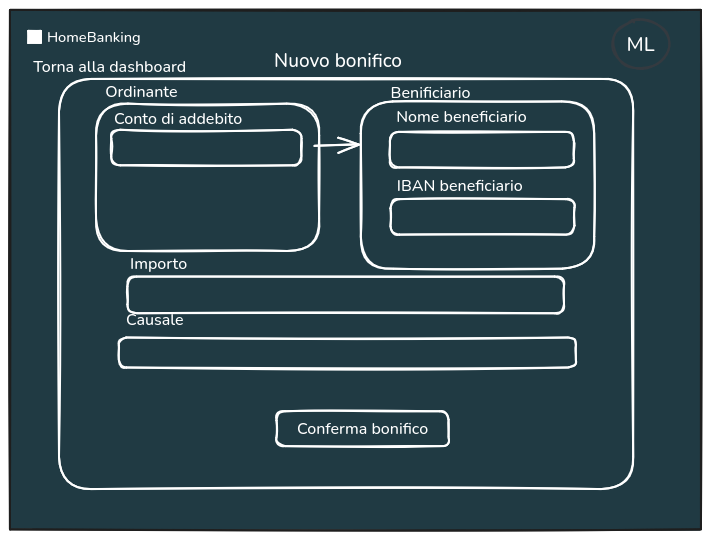
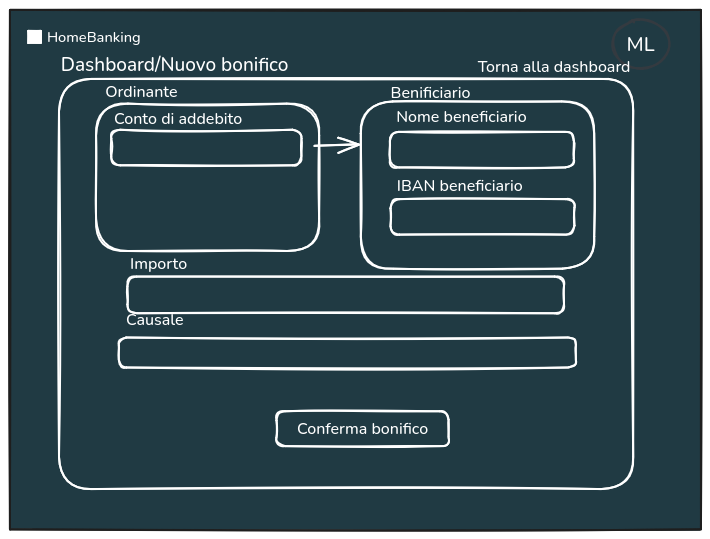
Finiti mockup

Changed region(s): [[0.062, 0.0891, 0.5577, 0.1484], [0.6817, 0.1187, 0.8986, 0.1484]]

diff --git a/Interazione_Persona_Calcolatore/4-Riprogettazione.tex b/Interazione_Persona_Calcolatore/4-Riprogettazione.tex
@@ -31,7 +31,7 @@ Andremo a utilizzare il seguente schema:\\
 		\item \textbf{Pattern 2} 
 	\end{itemize} 
 }{
-	\includegraphics[width=0.85\textwidth]{example_mockup_style} 
+	\includegraphics[width=0.5\textwidth]{example_mockup_style} 
 }
 
 \tabellaMockup{
@@ -49,7 +49,7 @@ Andremo a utilizzare il seguente schema:\\
 		\item \textbf{Limited Choice}.
 	\end{itemize} 
 }{
-	\includegraphics[width=0.85\textwidth]{mockup-homepage} 
+	\includegraphics[width=0.65\textwidth]{mockup-homepage} 
 }
 
 \tabellaMockup{
@@ -66,7 +66,7 @@ Andremo a utilizzare il seguente schema:\\
 		\item \textbf{Input Prompt} 
 	\end{itemize} 
 }{
-	\includegraphics[width=0.85\textwidth]{mockup-login} 
+	\includegraphics[width=0.65\textwidth]{mockup-login} 
 }
 
 \tabellaMockup{
@@ -81,12 +81,11 @@ Andremo a utilizzare il seguente schema:\\
 	\begin{itemize}
 		\item \textbf{Visual Framework};
 		\item \textbf{Button Groups};
-		\item \textbf{Grid of Equals};
 		\item \textbf{Breadcrumbs} grazie al Dashboard;
 		\item \textbf{Recognition over Recall}.
 	\end{itemize} 
 }{
-	\includegraphics[width=0.85\textwidth]{mockup-homecliente} 
+	\includegraphics[width=0.65\textwidth]{mockup-homecliente} 
 }
 
 \tabellaMockup{
@@ -105,7 +104,176 @@ Andremo a utilizzare il seguente schema:\\
 		\item \textbf{Tunnelling}.
 	\end{itemize} 
 }{
-	\includegraphics[width=0.85\textwidth]{mockup-bonificocliente} 
+	\includegraphics[width=0.65\textwidth]{mockup-bonificocliente} 
+}
+
+\tabellaMockup{
+	5
+}{
+	Conferma Bonifico Cliente 
+}{
+	30,31
+}{
+	Tolta doppia conferma, sistemati i dati di transazione, tasti coerenti.
+}{
+	\begin{itemize}
+		\item \textbf{Center Stage};
+		\item \textbf{Breadcrumbs};
+		\item \textbf{Visual Framework};
+		\item \textbf{Button Groups};
+		\item \textbf{Chunking}.
+	\end{itemize} 
+}{
+	\includegraphics[width=0.65\textwidth]{mockup-confermabonifico} 
+}
+
+\tabellaMockup{
+	6
+}{
+	Estratto conto cliente 
+}{
+	14
+}{
+	Rinominato il bottone da "estrai cvs" a "scarica movimenti" e spostato nella posizione giusta  
+}{
+	\begin{itemize}
+		\item \textbf{Breadcrumb};
+		\item \textbf{Visual framework};
+		\item \textbf{Input prompt:} per i box di testo dei filtri;
+		\item \textbf{Button group:} per i bottoni "filtra" e "reset" dei filtri;
+	\end{itemize} 
+}{
+	\includegraphics[width=0.65\textwidth]{mockup-estratto-conto} 
+}
+
+\tabellaMockup{
+	7
+}{
+	Il mio profilo (tutti utenti)
+}{
+	17,18,19,39,40,41,60,61
+}{
+	Uniformata la sezione "il mio profilo" per tutti gli utenti dell'applicazione  
+}{
+	\begin{itemize}
+		\item \textbf{Breadcrumb};
+		\item \textbf{Visual framework};
+		\item \textbf{Center stage};
+	\end{itemize} 
+}{
+	\includegraphics[width=0.65\textwidth]{mockup-il-mio-profilo} 
+}
+
+\tabellaMockup{
+	8
+}{
+	Dashboard Employee
+}{
+	37.38,44,52
+}{
+	Le card diventano un bottone unico (rispettando la legge di Fitts), ipotizzato help in basso a destra (poi si aggiunge anche a cliente e admin nella progettazione fisica), 
+}{
+	\begin{itemize}
+		\item \textbf{Grid of Equals};
+		\item \textbf{Breadcrumb};
+		\item \textbf{Visual framework};
+		\item \textbf{Recognition over Recall}.
+	\end{itemize} 
+}{
+	\includegraphics[width=0.65\textwidth]{mockup-dashboardemployee} 
+}
+
+\tabellaMockup{
+	9
+}{
+	Recupero Credenziali Employee (per Admin cambiano le azioni) (affine a gestione clienti/utenti, stessa struttura) (affine anche a Conti per Admin)
+}{
+	73
+}{
+	Tolte statistiche inutili e fuorvianti, aggiunta scelta filtro per ricerca utente, reso pulsante più esplicito, tolto reset multiplo da admin. Nel caso di gestione utenti, viene tolto il tasto elimina per evitare missclick (legge di Fitts).
+}{
+	\begin{itemize}
+		\item \textbf{Feature, Search, and Browse};
+		\item \textbf{Input Prompt};
+		\item \textbf{Breadcrumbs};
+		\item \textbf{Visual Framework}.
+	\end{itemize} 
+}{
+	\includegraphics[width=0.65\textwidth]{mockup-recuperocredenzialiemployee} 
+}
+
+\tabellaMockup{
+	10
+}{
+	Gestione Transazioni Admin/Employee (Operazioni Universali affine, cambiano le azioni e le statistiche)
+}{
+	49,51,75
+}{
+	Sistemate statistiche, unificato Admin/Employee, rese più chiare le azioni.
+}{
+	\begin{itemize}
+		\item \textbf{Feature, Search, and Browse};
+		\item \textbf{Input Prompt};
+		\item \textbf{Breadcrumbs};
+		\item \textbf{Visual Framework}.
+	\end{itemize} 
+}{
+	\includegraphics[width=0.65\textwidth]{mockup-transazioniadminemployee} 
+}
+
+\tabellaMockup{
+	11
+}{
+	Dettaglio cliente (Admin/Employee)
+}{
+	46,47,48,58,59
+}{
+	Riorganizzazione in modo coerente dell'intera pagina di dettaglio. Abbiamo separato le operazioni sul conto dalle operazioni sul cliente. Poi abbiamo ulteriormente separato le operazioni in modo semantico le operazioni sul conto in: operazioni monetarie, dettaglio transazioni e blocco conto (in modo simile anche per il cliente). L'interfaccia cambia in base al ruolo dell'utente visualizzato nel caso dell'Admin (non essendoci conti associati).
+}{
+	\begin{itemize}
+		\item \textbf{Visual framework};
+		\item \textbf{Grid of equals};
+	\end{itemize} 
+}{
+	\includegraphics[width=0.65\textwidth]{mockup-dettaglicliente} 
+}
+
+%da qua admin
+
+\tabellaMockup{
+	12
+}{
+	Dashboard admin  
+}{
+	53
+}{
+	Sezione "il mio profilo" e "logout" ora si trovano cliccando sul proprio avatar in alto a dx (convenzione generale su molte applicazioni web)  
+}{
+	\begin{itemize}
+		\item \textbf{Visual framework};
+		\item \textbf{Grid of equals}.
+	\end{itemize} 
+}{
+	\includegraphics[width=0.65\textwidth]{mockup-dashboard-admin} 
+}
+
+\tabellaMockup{
+	13
+}{
+	Associazioni Admin  
+}{
+	71
+}{
+	Riadattato al resto del sito, associazione possibile farla dalla lista o mediante pulsante nuova associazione.
+}{
+	\begin{itemize}
+		\item \textbf{Visual framework};
+		\item \textbf{Grid of equals};
+		\item \textbf{Breadcrumbs};
+		\item \textbf{Search and Browse}.
+	\end{itemize} 
+}{
+	\includegraphics[width=0.65\textwidth]{mockup-associazioni} 
 }
 
 \subsubsection{Pattern HCI impiegati}
@@ -114,6 +282,11 @@ In questa sezione andremo a riepilogare i pattern che sono stati utilizzati con 
 \subsection{Progettazione Fisica}
 \subsubsection{Layout}
 \subsubsection{Colori}
+Si è scelta la seguente palette di colori:
+\begin{center}
+	\includegraphics[width=1\textwidth]{palette} 
+\end{center}
+assieme al bianco e il nero.
 \subsubsection{Elementi grafici}
 \subsubsection{Testo}
 
